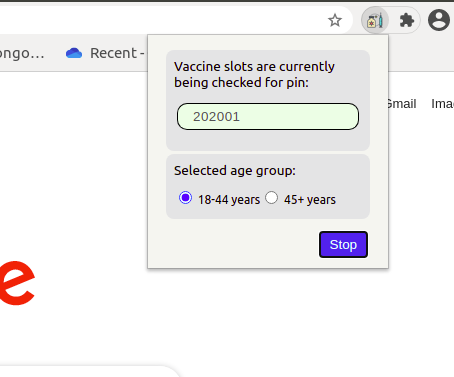
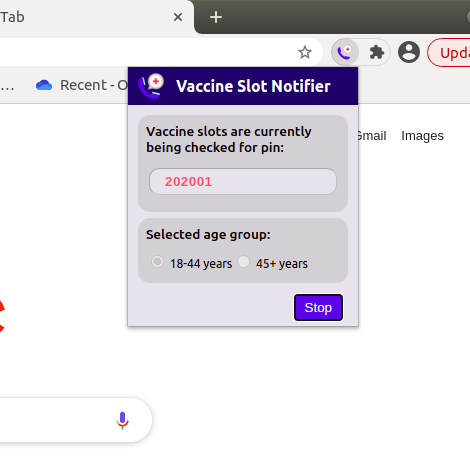
Updated images for extension

diff --git a/README.md b/README.md
@@ -6,6 +6,7 @@ It is a chrome extension which can simplify your vaccine slot hunt, and notify y
  * Search vaccines by your pin code.
  * Get desktop notifications when vaccines slots are available
  * Get updated data for slots every 1-minute.
+ * Find vaccines even after shutting down your chrome, once extension has been set to check.
  
 
 ## Installation
@@ -28,10 +29,11 @@ You have installed the extension and you should be able to see it in your extens
 ## Usage
 
 Open the extension.  In the pop up box you can put the pin code of the area for which you wish to check the slots.
-Click on Submit.
+Click on Submit.  
+
 ![Create screen](media/images/create_screen.png)
 
-The script for checking the slots has been triggered. It will keep on running in background checking the slots ..while you can continue sipping your coffee :P
+The script for checking the slots has been triggered. It will keep on running in background checking the slots ..while you can continue sipping your coffee :stuck_out_tongue:
 
 ![View screen](media/images/view_screen.png)
 
@@ -39,6 +41,16 @@ The script for checking the slots has been triggered. It will keep on running in
 You will get notifications when slots in your area are available.
 
 You can open the extension anytime and check the current pincode for which slots are being checked. Also, you have the option to stop the script anytime you wish.
+
+These are desktop notifications,so even when you are using other apps on your system,you will receive them.If you are using Windows, you can also access them from your system tray.
+
+### Notifications In Windows
+![Windows notification](media/images/notification_windows.jpeg)
+
+
+### Notifications In Linux
+![Ubuntu notification](media/images/notification_ubuntu.png)
+
 
 ---
 **NOTE**
